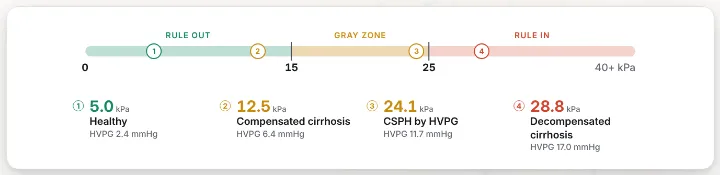
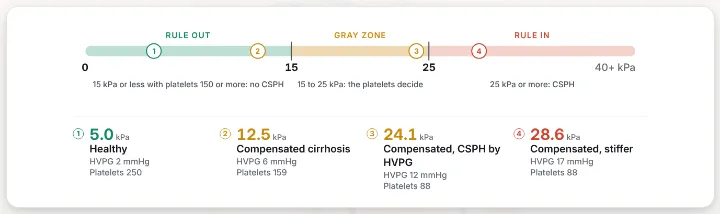
Baveno VII slide: platelets per patient, whole HVPG, compensated rule-in patient, rules row
Claude-Session: https://claude.ai/code/session_01UUJrJZPvhhMy612B5gbpd7

diff --git a/src/ui/presenter.js b/src/ui/presenter.js
@@ -19,9 +19,9 @@ import { download } from './records.js?v=50fb9dd463';
 import { SITES } from './ladder.js?v=cab65850a4';
 import { sinusoidSupported } from './sinusoid-view.js?v=14866bc1c9';
 import { NODES } from '../engine/topology.js?v=706a39d50b';
-import { DECKS, REGIONS, LEVELS, withOverview } from './decks.js?v=76c2cba741';
+import { DECKS, REGIONS, LEVELS, withOverview } from './decks.js?v=2fdce58a54';
 import { createTools } from './presenter-tools.js?v=5bb66173ff';
-import { openHandout } from './handout.js?v=0c17ffecc0';
+import { openHandout } from './handout.js?v=9dec8b36c3';
 
 const KEY = 'pps.scripts';
 const readMine = () => { try { return JSON.parse(localStorage.getItem(KEY) || '[]'); } catch { return []; } };
@@ -305,6 +305,11 @@ function rail(mode) {
 /** One number on a scale with its thresholds, each patient a pin that glides from zero to its value.
  *  sc: { key, max, low, marks: [[value, words]] }: each zone is named under its middle (low names the
  *  first), a name too wide for its zone on two lines; rows: [{ name, f, site }]. */
+// A visual's own patient ({ preset } with its params and days, if any), as one key.
+const xKey = (o) => o.preset + (o.params || o.days ? JSON.stringify([o.params, o.days]) : '');
+// Pressures read in whole mmHg on every visual; the rest keep their decimal.
+const WHOLE = new Set(['pv', 'whvp', 'fhvp', 'ivc', 'ra', 'hvpg', 'ppg', 'sin', 'map']);
+const dig = (k) => (WHOLE.has(k) ? 0 : TILE[k]?.d ?? 1);
 function scaleVisual(sc, rows) {
   if (sc.key === 'lsm' || sc.legend) return scaleKey(sc, rows);
   const W = 1400, H = 480, x0 = 70, x1 = W - 60, max = sc.max || 20, X = (v) => x0 + (x1 - x0) * clamp(v, 0, max) / max, Y = 268;
@@ -317,7 +322,7 @@ function scaleVisual(sc, rows) {
     return sv('text', { class: 'pzs-mw', x, y: Y + 116, 'text-anchor': 'middle' }, lines.map((l, i) => sv('tspan', { x, dy: i ? 34 : 0 }, l)));
   };
   const pins = [...rows].filter((r) => r.f).sort((a, b) => a.f[sc.key] - b.f[sc.key]);
-  const svg = sv('svg', { class: 'pz-scale', viewBox: `0 0 ${W} ${H}`, role: 'img', 'aria-label': pins.map((r) => `${r.name} ${fmt(r.f[sc.key], 1)}`).join(', ') },
+  const svg = sv('svg', { class: 'pz-scale', viewBox: `0 0 ${W} ${H}`, role: 'img', 'aria-label': pins.map((r) => `${r.name} ${fmt(r.f[sc.key], dig(sc.key))}`).join(', ') },
     zones.map(([a, b, c]) => sv('rect', { class: 'pzs-zone', 'data-rate': c, x: X(a), y: Y - 22, width: X(b) - X(a), height: 44 })),
     sc.marks.map(([v]) => sv('g', { class: 'pzs-mark' },
       sv('line', { x1: X(v), x2: X(v), y1: Y - 34, y2: Y + 34 }),
@@ -330,7 +335,7 @@ function scaleVisual(sc, rows) {
       const g = sv('g', { class: 'pzs-pin', 'data-rate': rate || 'none', style: `--x:${(X(v) - x0).toFixed(1)}px; --i:${i}` },
         sv('line', { x1: x0, x2: x0, y1: Y - up + 12, y2: Y - 14 }),
         sv('circle', { cx: x0, cy: Y, r: 15 }),
-        sv('text', { class: 'pzs-pv', x: x0, y: Y - up - 14, 'text-anchor': 'middle' }, fmt(v, 1)),
+        sv('text', { class: 'pzs-pv', x: x0, y: Y - up - 14, 'text-anchor': 'middle' }, fmt(v, dig(sc.key))),
         sv('text', { class: 'pzs-pn', x: x0, y: Y - up + 4 - 54, 'text-anchor': 'middle' }, r.name));
       return g;
     }));
@@ -349,7 +354,9 @@ function scaleKey(sc, rows) {
   const span = (z) => `left:${P(z.a)};width:calc(${P(z.b)} - ${P(z.a)})`;
   const pins = rows.filter((r) => r.f).sort((a, b) => a.f[sc.key] - b.f[sc.key]);
   const rate = (r) => rateOf(sc.key, r.f)[0] || 'none';
-  const sub = (f) => (sc.sub && f[sc.sub] != null ? `${TILE[sc.sub]?.t || sc.sub} ${fmt(f[sc.sub], 1)} ${TILE[sc.sub]?.u || ''}` : null);
+  // A second reading or several under each patient (sub: a tile key or a list), pressures in whole mmHg.
+  const SUBNAME = { hvpg: 'HVPG', plt: 'Platelets', ppg: 'PPG' };
+  const sub = (f) => [sc.sub || []].flat().filter((k) => f[k] != null).map((k) => `${SUBNAME[k] || TILE[k]?.t || k} ${fmt(f[k], dig(k))}${TILE[k]?.u ? ` ${TILE[k].u}` : ''}`);
   const box = h('div', { class: 'pz-visual pz-sk', role: 'img', 'aria-label': pins.map((r) => `${r.name} ${fmt(r.f[sc.key], 1)} ${u}`).join(', ') },
     h('div', { class: 'pzk-names', 'aria-hidden': 'true' }, zones.map((z) => h('span', { 'data-rate': z.c, style: span(z) }, z.t))),
     h('div', { class: 'pzk-bar', 'aria-hidden': 'true' },
@@ -357,11 +364,13 @@ function scaleKey(sc, rows) {
       sc.marks.map(([v]) => h('b', { style: `left:${P(v)}` })),
       pins.map((r, i) => h('span', { class: 'pzk-dot', 'data-rate': rate(r), style: `--x:${P(r.f[sc.key])};--i:${i}` }, String(i + 1)))),
     h('div', { class: 'pzk-axis', 'aria-hidden': 'true' }, [0, ...sc.marks.map(([v]) => v)].map((v) => h('span', { style: `left:${P(v)}` }, String(v))), h('span', { class: 'end' }, `${max}+ ${u}`)),
+    // (rules: each zone's rule in words, under its stretch of the axis)
+    sc.rules ? h('div', { class: 'pzk-rules' }, zones.map((z, i) => h('span', { 'data-rate': z.c, style: span(z) }, sc.rules[i] || ''))) : null,
     h('ol', { class: 'pzk-key' }, pins.map((r, i) => h('li', { 'data-rate': rate(r), style: `--i:${i}` },
       h('span', { class: 'pzk-n' }, String(i + 1)),
-      h('span', { class: 'pzk-v' }, fmt(r.f[sc.key], 1), h('small', {}, ` ${u}`)),
+      h('span', { class: 'pzk-v' }, fmt(r.f[sc.key], dig(sc.key)), h('small', {}, ` ${u}`)),
       h('span', { class: 'pzk-name' }, r.name),
-      sub(r.f) ? h('span', { class: 'pzk-sub' }, sub(r.f)) : null))));
+      sub(r.f).map((t) => h('span', { class: 'pzk-sub' }, t))))));
   const go = () => box.classList.add('in');
   requestAnimationFrame(() => requestAnimationFrame(go)); setTimeout(go, 120);
   return box;
@@ -508,16 +517,17 @@ export function createPresenter({ openSettings, startCase, cases = [], host, sta
     const key = deck.mine ? null : deck.id;
     stateOf = []; let last = 0;
     slides.forEach((s, i) => { if (changes(s) || i === 0) last = i; stateOf[i] = last; });
-    // Patients a visual compares that no slide shows ({ preset } rows): computed after the slides, each fresh.
-    const extra = [...new Set(slides.flatMap((s) => (s.of || []).filter((o) => typeof o === 'object' && o.preset && !o.id).map((o) => o.preset)))];
-    extraOf = new Map(extra.map((id, k) => [id, slides.length + k]));
+    // Patients a visual compares that no slide shows ({ preset, params?, days? } rows): computed after the slides, each fresh.
+    const extraRows = slides.flatMap((s) => (s.of || []).filter((o) => typeof o === 'object' && o.preset && !o.id));
+    const extra = [...new Map(extraRows.map((o) => [xKey(o), o])).values()];
+    extraOf = new Map(extra.map((o, k) => [xKey(o), slides.length + k]));
     const hit = key && cache.get(key);
     if (hit) { states = hit.states; waiters = []; return; }
     const mine = []; states = mine; waiters = [];
-    const c = getCalc(), steps = [...slides.map((s) => (changes(s) ? { preset: s.preset, presetDays: s.presetDays, params: s.params, action: s.action, days: s.days, ramp: s.ramp, fine: !!s.lapse } : {})), ...extra.map((id) => ({ preset: id }))];
+    const c = getCalc(), steps = [...slides.map((s) => (changes(s) ? { preset: s.preset, presetDays: s.presetDays, params: s.params, action: s.action, days: s.days, ramp: s.ramp, fine: !!s.lapse } : {})), ...extra.map((o) => ({ preset: o.preset, params: o.params, days: o.days }))];
     const presetAt = []; let pid = store.get().presetId;
     slides.forEach((s, i) => { if (s.preset) pid = s.preset; presetAt[i] = pid; });
-    extra.forEach((id, k) => { presetAt[slides.length + k] = id; });
+    extra.forEach((o, k) => { presetAt[slides.length + k] = o.preset; });
     const deckNow = deck;
     (async () => {
       const first = slides[0]?.preset ? null : (await host.request('snapshot')).snap;
@@ -917,7 +927,7 @@ export function createPresenter({ openSettings, startCase, cases = [], host, sta
   const fpOf = (id) => { const i = slides.findIndex((x) => x.id === id); return i >= 0 ? states[stateOf[i]]?.fp : null; };
   // A visual's rows: the deck's slides by id ('pvt', or { id, name } to name it), or { preset, name } patients that
   // no slide shows, computed after the slides.
-  const rowAt = (o) => { const id = typeof o === 'string' ? o : o.id, i = id ? slides.findIndex((x) => x.id === id) : -1; return [i, i >= 0 ? stateOf[i] : extraOf.get(o.preset)]; };
+  const rowAt = (o) => { const id = typeof o === 'string' ? o : o.id, i = id ? slides.findIndex((x) => x.id === id) : -1; return [i, i >= 0 ? stateOf[i] : extraOf.get(xKey(o))]; };
   const rowIdx = (s) => (s.of || []).map((o) => rowAt(o)[1]).filter((k) => k != null && k >= 0);
   function rowsOf(s) {
     return (s.of || []).map((o) => {

diff --git a/src/ui/decks/stiffness.js b/src/ui/decks/stiffness.js
@@ -1,7 +1,6 @@
 // Presenter talk: liver stiffness, the spleen and the platelets (the slide fields are described at the top of decks.js).
 
 // A variable in an equation: set in italic, as in print.
-const v = (x) => `<mi style="font-style:italic">${x}</mi>`;
 
 export const STIFFNESS = {
   id: 'stiffness', level: 'core', title: 'Non-invasive assessment: stiffness, spleen and platelets', minutes: 10,
@@ -35,13 +34,13 @@ export const STIFFNESS = {
       ask: ['Why scan fasting?', 'A meal raises portal inflow and the stiffness reading for up to about two hours.'],
     },
     {
-      id: 'rule', visual: 'scale', scale: { key: 'lsm', max: 40, low: 'Rule out', marks: [[15, 'Gray zone'], [25, 'Rule in']], sub: 'hvpg' },
-      of: [{ preset: 'healthy', name: 'Healthy' }, { id: 'fibrosis', name: 'Compensated cirrhosis' }, { preset: 'csph', name: 'CSPH by HVPG' }, { preset: 'cirr-decomp', name: 'Decompensated cirrhosis' }],
-      kicker: 'Baveno VII', title: 'Stiffness against the gradient',
-      eq: [`<mtable><mtr><mtd style="text-align:left;padding:0 .7em .15em 0"><mtext>Rule out</mtext></mtd><mtd style="text-align:left;padding:0 0 .15em">${v('LSM')}<mo>≤</mo><mn>15</mn><mtext>&#8201;kPa</mtext></mtd></mtr><mtr><mtd style="text-align:left;padding:0 .7em .15em 0"></mtd><mtd style="text-align:left;padding:0 0 .15em"><mtext>and&#8194;</mtext>${v('PLT')}<mo>≥</mo><mn>150</mn><mo>×</mo><msup><mn>10</mn><mn>9</mn></msup><mtext>/L</mtext></mtd></mtr><mtr><mtd style="text-align:left;padding:.35em .7em .15em 0"><mtext>Rule in</mtext></mtd><mtd style="text-align:left;padding:.35em 0 .15em">${v('LSM')}<mo>≥</mo><mn>25</mn><mtext>&#8201;kPa</mtext></mtd></mtr></mtable>`,
-        'CSPH by Baveno VII. LSM: liver stiffness by FibroScan. PLT: platelet count.'],
-      line: 'Between 15 and 25 kPa, stiffness alone cannot decide. The patient in the gray zone has CSPH by HVPG at 24 kPa.',
-      notes: 'The rule of five: 10, 15, 20 and 25 kPa. At or below 15 kPa with platelets of 150 or more, CSPH is ruled out (under 5% risk) and screening endoscopy can be skipped. At 25 kPa or more, CSPH is ruled in (in viral and alcohol-related disease, and in non-obese MASLD). In the gray zone, 20 to 25 kPa with platelets below 150, or 15 to 20 kPa with platelets below 110, gives a risk of CSPH of 60% or more. The model\'s patient with CSPH (HVPG 11.7 mmHg) sits at 24 kPa, in the gray zone: a reminder that the zone is common, and that there the catheter or the platelets decide.',
+      id: 'rule', visual: 'scale', scale: { key: 'lsm', max: 40, low: 'Rule out', marks: [[15, 'Gray zone'], [25, 'Rule in']], sub: ['hvpg', 'plt'],
+        rules: ['15 kPa or less with platelets 150 or more: no CSPH', '15 to 25 kPa: the platelets decide', '25 kPa or more: CSPH'] },
+      // (Baveno VII's rules are for compensated disease, so every patient here is compensated, without ascites.)
+      of: [{ preset: 'healthy', name: 'Healthy' }, { id: 'fibrosis', name: 'Compensated cirrhosis' }, { preset: 'csph', name: 'Compensated, CSPH by HVPG' }, { preset: 'csph', params: { cirrhosis: 0.75 }, name: 'Compensated, stiffer' }],
+      kicker: 'Baveno VII', title: 'Stiffness rules for CSPH',
+      line: 'In compensated cirrhosis, 25 kPa or more means CSPH and 15 or less with normal platelets rules it out. Patient 3, at {24.1 kPa}, has an HVPG of 12: in the gray zone, low platelets point to CSPH.',
+      notes: 'The rule of five: 10, 15, 20 and 25 kPa. At or below 15 kPa with platelets of 150 or more, CSPH is ruled out (under 5% risk) and screening endoscopy can be skipped. At 25 kPa or more, CSPH is ruled in (in viral and alcohol-related disease, and in non-obese MASLD). In the gray zone, 20 to 25 kPa with platelets below 150, or 15 to 20 kPa with platelets below 110, gives a risk of CSPH of 60% or more. The model\'s compensated patient with CSPH (HVPG 12 mmHg, platelets 88) sits at 24 kPa, in the gray zone: a reminder that the zone is common, and that there the catheter or the platelets decide.',
       ask: ['Stiffness 13 kPa, platelets 180. Does this patient need a screening endoscopy?', 'No: below 15 kPa with platelets of 150 or more rules out CSPH.'],
     },
     {

diff --git a/styles/app.css b/styles/app.css
@@ -4553,10 +4553,13 @@ body.hvpg-swap canvas[aria-label^="Pressure profile"] { animation: hvpgSwap .5s 
 .pzk-axis { height: 1.7em; margin-top: .2em; font-weight: 700; font-variant-numeric: tabular-nums; }
 .pzk-axis span { position: absolute; top: 0; transform: translateX(-50%); }
 .pzk-axis .end { right: 0; transform: none; font-weight: 500; color: var(--text-3); }
+.pzk-rules { position: relative; margin: .1em 1.2em 0; height: 2.6em; }
+.pzk-rules span { position: absolute; top: 0; padding: 0 .4em; box-sizing: border-box; text-align: center; font-size: .78em; line-height: 1.3; color: var(--text-2); }
+.pzk-bar b { z-index: 0; } .pzk-dot { z-index: 1; }
 .pzk-key { list-style: none; margin: .9em 0 0; padding: .9em 0 0; border-top: 1px solid var(--border); display: grid; grid-template-columns: repeat(4, minmax(0, 1fr)); gap: .9em 1.2em; }
 .pzk-key li { display: grid; grid-template-columns: auto 1fr; column-gap: .55em; align-items: baseline; align-content: start; opacity: 0; transition: opacity .5s var(--ease) calc(var(--i, 0) * 160ms + 400ms); }
 .pz-sk.in .pzk-key li { opacity: 1; }
-.pzk-n { grid-row: span 3; align-self: start; display: grid; place-items: center; width: 1.5em; height: 1.5em; border-radius: 50%; border: .12em solid currentColor; font: 700 .72em/1 var(--font-ui); color: var(--text-2); margin-top: .35em; }
+.pzk-n { grid-row: span 4; align-self: start; display: grid; place-items: center; width: 1.5em; height: 1.5em; border-radius: 50%; border: .12em solid currentColor; font: 700 .72em/1 var(--font-ui); color: var(--text-2); margin-top: .35em; }
 .pzk-v { font: 700 1.5em/1.1 var(--font-ui); font-variant-numeric: tabular-nums; }
 .pzk-v small { font-size: .5em; font-weight: 500; color: var(--text-3); }
 .pzk-name { font-weight: 600; }

diff --git a/index.html b/index.html
@@ -22,7 +22,7 @@
   <link rel="stylesheet" href="fonts/fonts.css" />
   <script>try{var t=localStorage.getItem('pps.theme');if(t==='dark'||t==='light')document.documentElement.setAttribute('data-theme',t);var d=t==='dark'||(t!=='light'&&matchMedia('(prefers-color-scheme: dark)').matches);if(d){document.documentElement.style.background='#0E1422';document.documentElement.style.colorScheme='dark'}var z=parseFloat(localStorage.getItem('pps.uiZoom'));if(z>=0.5&&z<=2&&z!==1){document.documentElement.style.zoom=z;document.documentElement.style.setProperty('--ui-zoom',z)}}catch(e){}</script>
   <link rel="stylesheet" href="styles/tokens.css?v=d9d0f19c4b" />
-  <link rel="stylesheet" href="styles/app.css?v=b808e0f93d" />
+  <link rel="stylesheet" href="styles/app.css?v=ba1bc159bb" />
   <style>
     #boot { position: fixed; top: 0; left: 0; right: 0; bottom: 0; width: calc(100vw / var(--ui-zoom, 1)); height: calc(100vh / var(--ui-zoom, 1)); height: calc(100lvh / var(--ui-zoom, 1)); z-index: 2147483647; display: grid; place-items: center; background: var(--bg, #FBFAF7); transition: opacity .45s ease, visibility .45s; }
     #boot.done { opacity: 0; visibility: hidden; pointer-events: none; }
@@ -223,6 +223,6 @@
   <link rel="modulepreload" href="src/ui/instruments.js?v=67a27049f4" />
   <link rel="modulepreload" href="src/ui/timeline.js?v=5aaa481577" />
   <link rel="modulepreload" href="src/engine/topology.js?v=706a39d50b" />
-  <script type="module" src="src/ui/main.js?v=d2258970cd"></script>
+  <script type="module" src="src/ui/main.js?v=ee72f42445"></script>
 </body>
 </html>

diff --git a/src/ui/main.js b/src/ui/main.js
@@ -141,7 +141,7 @@ async function main() {
   // flagged, not forced.
   learn = createLearn({ host: $('#panelLesson'), coach: $('#coach'), stage, panel: $('#panelChart'), dock, inspector, onWhy: (m, el) => why.open(m, el), ...api, showPane: (id) => dock.show(id, { reveal: 'lesson' }), startCase: (id) => startCase(id), onUnitEnd: (u, o) => { if (o?.explore) openInExplore(o.explore); else home.open(o?.practice ? 'practice' : 'course'); } });
   cases = createCases({ root: $('#panelCase'), api, coach: $('#coach'), onUnitEnd: () => home.open('course') });
-  presenterL = lazy(() => import('./presenter.js?v=526e8cdfa2'), ({ createPresenter }) => createPresenter({ openSettings, startCase, cases: CASES, loadPreset, updateParams, host, stage, dock, action: doAction,
+  presenterL = lazy(() => import('./presenter.js?v=b291fd4a05'), ({ createPresenter }) => createPresenter({ openSettings, startCase, cases: CASES, loadPreset, updateParams, host, stage, dock, action: doAction,
     projectorOn: () => { if (!projector) toggleProjector(); }, projectorOff: () => { if (projector) toggleProjector(); },
     closeHome: () => home.close(), stashCards, rerenderHome: () => { if (home.isOpen()) home.render(); } }));
   home = createHome({

diff --git a/src/ui/handout.js b/src/ui/handout.js
@@ -6,7 +6,7 @@
 // (decks.js, new ones included: a slide without a figure prints without one) and for the instructor's scripts.
 
 import { download } from './records.js?v=50fb9dd463';
-import { LEVELS, withOverview } from './decks.js?v=76c2cba741';
+import { LEVELS, withOverview } from './decks.js?v=2fdce58a54';
 
 const esc = (t) => String(t ?? '').replace(/[&<>"]/g, (c) => ({ '&': '&amp;', '<': '&lt;', '>': '&gt;', '"': '&quot;' })[c]);
 const slug = (t) => t.replace(/[^\w-]+/g, '-').replace(/^-|-$/g, '').toLowerCase();

diff --git a/src/ui/decks.js b/src/ui/decks.js
@@ -47,7 +47,7 @@
 // Every deck opens with an "Outline and objectives" slide built from its kicker groups and objectives
 // (withOverview below); a deck never writes that slide itself.
 
-import { STIFFNESS } from './decks/stiffness.js?v=bcdc0395da';
+import { STIFFNESS } from './decks/stiffness.js?v=5a9eef4174';
 import { ONE_YEAR } from './decks/one-year.js?v=5c136a5945';
 import { LOBULE } from './decks/lobule.js?v=88e7d6a484';
 import { SHUNTS } from './decks/shunts.js?v=f85ae18277';
